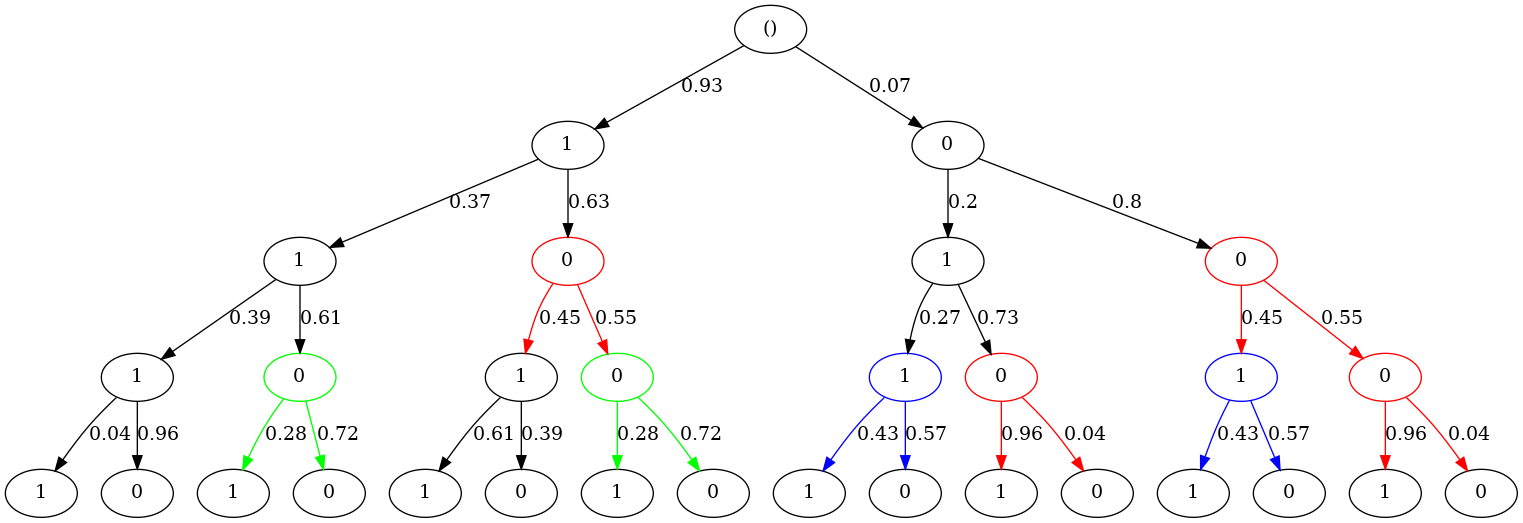
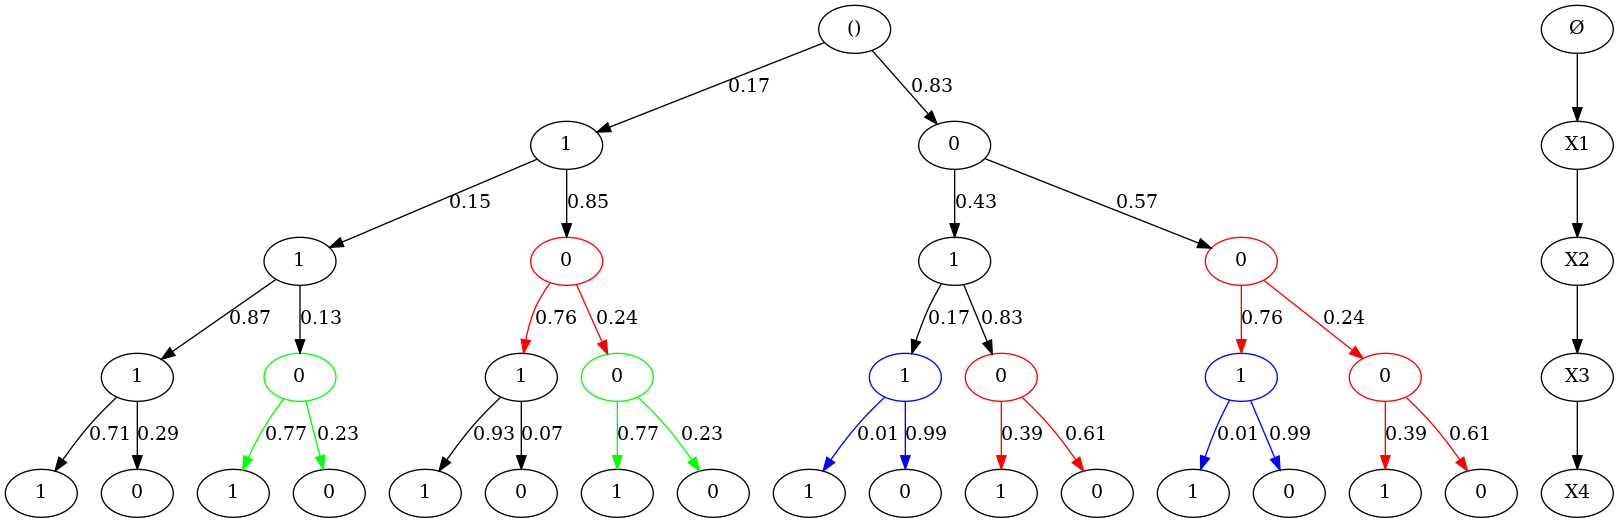
Updated readme

diff --git a/src/example.py b/src/example.py
@@ -4,17 +4,16 @@
 import cstrees.cstree as ct
 import matplotlib.pyplot as plt
 import networkx as nx
+import numpy as np
 import pydot
 from networkx.drawing.nx_pydot import graphviz_layout
 
-
 # CStree from Figure 1 in (Duarte & Solus, 2022)
 
+np.random.seed(1)
 p = 4
-
 co = range(1, p+1)
 tree = ct.CStree(co)
-
 tree.set_cardinalities([None] + [2] * p)
 tree.add_stages({
     0: [],
@@ -26,46 +25,13 @@ tree.add_stages({
 })
 
 tree.create_tree()
-
-
 tree.set_random_parameters()
-
-# print(tree.tree.edges)
-#print(tree.tree.nodes)
-
-#pos = graphviz_layout(tree.tree, prog="twopi")
-#nx.draw(tree, pos)
-# plt.show()
-
-# plt.savefig("test.png")
-
-
-# options = {
-#     "font_size": 5,
-#     "node_size": 500,
-#     "node_color": "white",
-#     "edgecolors": "black",
-#     "linewidths": 1,
-#     "width": 1,
-# }
-# plt.figure(figsize=(8, 8))
-# pos = graphviz_layout(tree.tree, prog="dot",)
-# nx.draw_networkx(tree.tree, pos=pos, with_labels=True, **options)
-
-# # Set margins for the axes so that nodes aren't clipped
-# ax = plt.gca()
-# ax.margins(0.20)
-# plt.axis("off")
-# plt.show()
-
-
-#print(tree.tree.nodes)
-
+nodes = [("X"+str(i), "X"+str(i+1)) for i in range(1, p)]
+tree.tree.add_edges_from(nodes)
+tree.tree.add_edge("Ø","X1")
 agraph = nx.nx_agraph.to_agraph(tree.tree)
+
 agraph.layout("dot")
-
-
 agraph.draw("cstree.png")
-
 
 #dags = tree.to_minimal_context_graphs()
